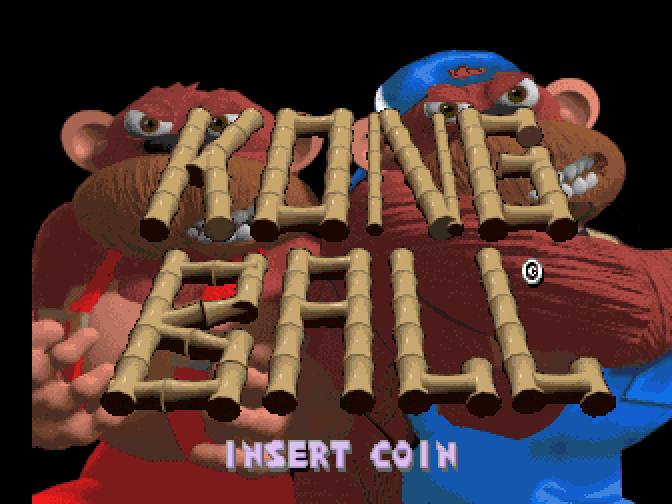
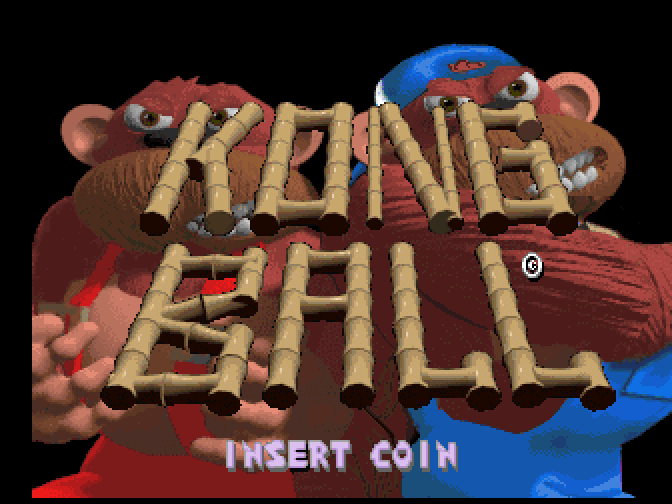
docs: remake the stills without the row bias and correct the records
- the documentation stills of Wheels & Fire, Power Ball and Kong Ball
  remade with family-captures.py: each is a clean three-row shift of
  the background against the old one, looked at pair by pair
- registers.yaml: the convergence grid's two copies counted apart, the
  read formula stated with the line the scroll was written on, the
  withdrawn read-ahead pointed to from the records that still name it,
  and the moved goldens listed in full
- goldens/README.md: the race floor read as the rule now states it, and
  the wheelfir row names the service-mode scene
- the operations rule points at the header's two planes

diff --git a/goldens/README.md b/goldens/README.md
@@ -7,7 +7,7 @@ change is has to be looked at before anything is re-blessed.
 |------|-----|
 | `radendurh` | `make verify`. It has to navigate: coin, menu, and reach the starting line |
 | `radendur` | `make verify` too: the board's dump, emulated as it is, pinned short of the starting line |
-| `wheelfir` | `make verify-family`. Fixed attract frames, no controls touched |
+| `wheelfir` | `make verify-family`. Fixed attract frames, and the service mode's grid behind the `press` lines of its `scenes.conf` |
 | `kongball` | the same |
 | `pwball` | the same |
 | `rltennis` | the same |
@@ -68,7 +68,8 @@ with no multiplier ([radendurh/README.md](radendurh/README.md)).
 ## The siblings' goldens are not a validated reference
 
 The two from the Wheels & Fire race (`05_race_hud` and `06_race_hud2`) are the FLOOR: they are
-blessed over a state validated by looking at it, and if they go red the change is wrong.
+blessed over a state validated by looking at it, and a change that turns them red is wrong unless
+it is a decision on the race itself, taken by looking at the before and after.
 
 Power Ball's, Kong Ball's and Reality Tennis's do NOT have that status: they are a record of the
 current emulation, not a validated reference. Power Ball and Kong Ball

diff --git a/.claude/rules/mame-operations.md b/.claude/rules/mame-operations.md
@@ -59,8 +59,8 @@ the dump, stops on its faults by design.
 The race as its two goldens hold it is the validated reference, not a starting point to improve.
 The displayed page is the bit the game declares, read on line 0 of the frame, and the clearing is
 the game's own (a word-14 fill, and the bit-3 erase that walks its destination in columns); other
-page readings were tried and each broke the race. The driver states the model in its header (THE
-PLANES), at the line-0 sampling in `scanline_timer_callback` and above `screen_update`'s compositing
+page readings were tried and each broke the race. The driver states the model in its header (the
+blitter's two planes), at the line-0 sampling in `scanline_timer_callback` and above `screen_update`'s compositing
 loop.
 
 `goldens/wheelfir/05_race_hud.png` and `06_race_hud2.png` hold that state, two frames because one
